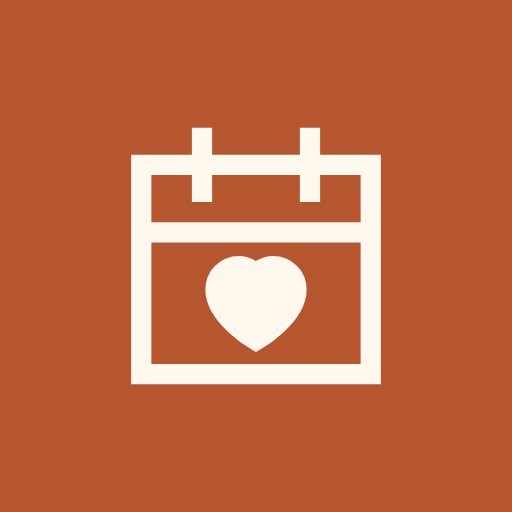
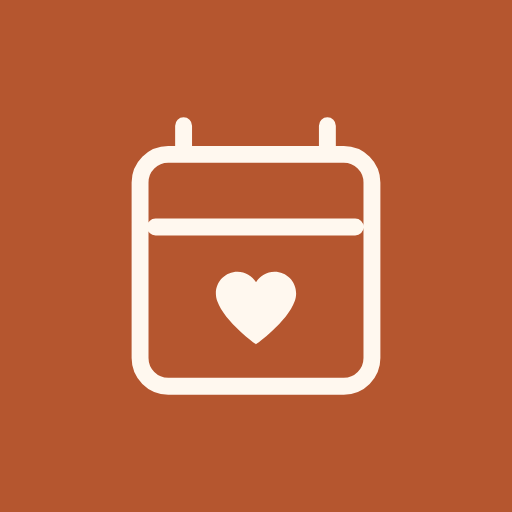
Bytt ikonserie til Arcticons, med nytt appikon
Claude-Session: https://claude.ai/code/session_01B8mfHcXUGkCFza3HKBksXZ

Changed region(s): [[0.25, 0.2188, 0.75, 0.7812]]

diff --git a/public/index.html b/public/index.html
@@ -20,28 +20,26 @@
   <link rel="stylesheet" href="style.css">
 </head>
 <body>
-  <!-- Ikoner: UIX Sharp (MIT, MD Rakib Shekh) via Iconify -->
+  <!-- Ikoner: Arcticons (CC BY-SA 4.0, Donnnno og Arcticons-bidragsytere) via Iconify;
+       pluss, kryss, piler, «åpne lenke» og «logg ut» er tegnet i samme stil. -->
   <svg width="0" height="0" style="position:absolute" aria-hidden="true">
-    <symbol id="i-grocery" viewBox="0 0 24 24"><g fill="none" stroke="currentColor" stroke-linecap="square" stroke-miterlimit="3.5" stroke-width="1.5"><path d="m4 10l2 1.5L8 10l2 1.5l2-1.5l2 1.5l2-1.5l2 1.5l2-1.5v11.5H4Z"/><path d="M6.75 11L3 6a2.5 2.5 0 0 1 4-3l6 8m1.75-.25V8.5C14.75 7 16 6.5 16 5V2.5h2.5V5c0 1.5 1.25 2 1.25 3.5v1.75M6 8l2.5-1M3.75 5l2.5-1"/></g></symbol>
-    <symbol id="i-shopping-list" viewBox="0 0 24 24"><g fill="none" stroke="currentColor" stroke-linecap="square" stroke-miterlimit="3.5" stroke-width="1.5"><path d="M4.5 2.5h15v19h-15Z"/><path d="M7.5 5.5H10V8H7.5Zm0 5.25H10v2.5H7.5Zm0 5.25H10v2.5H7.5Zm5.25-9.25h3.75M12.75 12h3.75m-3.75 5.25H15"/></g></symbol>
-    <symbol id="i-calendar-week" viewBox="0 0 24 24"><path fill="none" stroke="currentColor" stroke-linecap="square" stroke-miterlimit="3.5" stroke-width="1.5" d="M3 3.5h18v18H3ZM8 2v3.5M16 2v3.5m-13 2h18M7 11h10M7 14.25h10M7 17.5h10"/></symbol>
-    <symbol id="i-settings" viewBox="0 0 24 24"><g fill="none" stroke="currentColor" stroke-linecap="square" stroke-miterlimit="3.5" stroke-width="1.5"><path d="m10.474 4.912l.261-2.327h2.53l.261 2.327l2.407.997l1.83-1.461l1.789 1.789l-1.461 1.83l.997 2.407l2.327.261v2.53l-2.327.261l-.997 2.407l1.461 1.83l-1.789 1.789l-1.83-1.461l-2.407.997l-.261 2.327h-2.53l-.261-2.327l-2.407-.997l-1.83 1.461l-1.789-1.789l1.461-1.83l-.997-2.407l-2.327-.261v-2.53l2.327-.261l.997-2.407l-1.461-1.83l1.789-1.789l1.83 1.461Z"/><path d="M9 12a3 3 0 1 0 6 0a3 3 0 1 0-6 0Z"/></g></symbol>
-    <symbol id="i-close" viewBox="0 0 24 24"><path fill="none" stroke="currentColor" stroke-linecap="square" stroke-miterlimit="3.5" stroke-width="1.5" d="m5.5 5.5l13 13m0-13l-13 13"/></symbol>
-    <symbol id="i-chevron-left" viewBox="0 0 24 24"><path fill="none" stroke="currentColor" stroke-linecap="square" stroke-miterlimit="3.5" stroke-width="1.5" d="M15 18.5L8.5 12L15 5.5"/></symbol>
-    <symbol id="i-chevron-right" viewBox="0 0 24 24"><path fill="none" stroke="currentColor" stroke-linecap="square" stroke-miterlimit="3.5" stroke-width="1.5" d="m9 5.5l6.5 6.5L9 18.5"/></symbol>
-    <symbol id="i-plus" viewBox="0 0 24 24"><path fill="none" stroke="currentColor" stroke-linecap="square" stroke-miterlimit="3.5" stroke-width="1.5" d="M12 4v16m-8-8h16"/></symbol>
-    <symbol id="i-external-link" viewBox="0 0 24 24"><path fill="none" stroke="currentColor" stroke-linecap="square" stroke-miterlimit="3.5" stroke-width="1.5" d="M11 4.5H7.5a3 3 0 0 0-3 3v9a3 3 0 0 0 3 3h9a3 3 0 0 0 3-3V13M11 13l8.5-8.5m-5.5 0h5.5V10"/></symbol>
-    <symbol id="i-share-ios" viewBox="0 0 24 24"><path fill="none" stroke="currentColor" stroke-linecap="square" stroke-miterlimit="3.5" stroke-width="1.5" d="M8.5 9h-2a2 2 0 0 0-2 2v8a2 2 0 0 0 2 2h11a2 2 0 0 0 2-2v-8a2 2 0 0 0-2-2h-2M12 2.5v12M8.5 6L12 2.5L15.5 6"/></symbol>
-    <symbol id="i-calendar-sync" viewBox="0 0 24 24"><g fill="none" stroke="currentColor" stroke-linecap="square" stroke-miterlimit="3.5" stroke-width="1.5"><path d="M3.5 5h17v15.5h-17ZM8 3v4m8-4v4M3.5 10h17"/><path d="M9.835 14a2.5 2.5 0 0 1 4.665 1.25"/><path d="m13.25 14l1.25 1.25L15.75 14m-1.585 2.5A2.5 2.5 0 0 1 9.5 15.25"/><path d="m8.25 16.5l1.25-1.25l1.25 1.25"/></g></symbol>
-    <symbol id="i-copy-link" viewBox="0 0 24 24"><g fill="none" stroke="currentColor" stroke-linecap="square" stroke-miterlimit="3.5" stroke-width="1.5"><path d="M8.5 8.5h12v12h-12Z"/><path d="M4 14.5V6a2.5 2.5 0 0 1 2.5-2.5h8M13 12h-.5a2.5 2.5 0 0 0 0 5h.5m3-5h.5a2.5 2.5 0 0 1 0 5H16m-3-2.5h3"/></g></symbol>
-    <symbol id="i-logout" viewBox="0 0 24 24"><path fill="none" stroke="currentColor" stroke-linecap="square" stroke-miterlimit="3.5" stroke-width="1.5" d="M13 6V4.5a2 2 0 0 0-2-2H5.5a2 2 0 0 0-2 2v15a2 2 0 0 0 2 2H11a2 2 0 0 0 2-2V18m-5-6h13m-3.5-3.5L21 12l-3.5 3.5"/></symbol>
-    <symbol id="i-calendar" viewBox="0 0 24 24"><path fill="none" stroke="currentColor" stroke-linecap="square" stroke-miterlimit="3.5" stroke-width="1.5" d="M3.5 5h17v15.5h-17ZM8 3v4m8-4v4M3.5 10h17M8 14h.01M12 14h.01M16 14h.01M8 17h.01M12 17h.01"/></symbol>
-    <symbol id="i-chef-recipe-book" viewBox="0 0 24 24"><g fill="none" stroke="currentColor" stroke-linecap="square" stroke-miterlimit="3.5" stroke-width="1.5"><path d="M12.727 21.5H7q-.123 0-.245-.012t-.243-.036q-.12-.024-.238-.06t-.231-.082t-.221-.105t-.211-.126q-.102-.069-.197-.146q-.095-.078-.182-.165t-.165-.182t-.146-.197t-.126-.211t-.105-.221q-.047-.114-.082-.231t-.06-.238t-.036-.243T4.5 19V5q0-.123.012-.245t.036-.243q.024-.12.06-.238t.082-.231t.105-.221q.058-.109.126-.211q.069-.102.146-.197q.078-.095.165-.182t.182-.165q.095-.077.197-.146t.211-.126q.108-.058.221-.105q.114-.047.231-.082t.238-.06q.121-.024.243-.036T7 2.5h12.5v8.573"/><path d="M4.5 19q0-.123.012-.245t.036-.243t.06-.238t.082-.231q.047-.113.105-.221q.058-.109.126-.211q.069-.102.146-.197q.078-.095.165-.182t.182-.165t.197-.146t.211-.126q.108-.058.221-.105q.114-.047.231-.082t.238-.06t.243-.036T7 16.5h4.573m3.927 5v-3c-1.75-.5-1.5-3.5.5-3.25c.5-2 3.5-2 4 0c2-.25 2.25 2.75.5 3.25v3Z"/></g></symbol>
-    <symbol id="i-repeat" viewBox="0 0 24 24"><g fill="none" stroke="currentColor" stroke-linecap="square" stroke-miterlimit="3.5" stroke-width="1.5"><path d="M4.5 13v-2.5a3 3 0 0 1 3-3H19"/><path d="m16 4.5l3 3l-3 3m3.5.5v2.5a3 3 0 0 1-3 3H5"/><path d="m8 13.5l-3 3l3 3"/></g></symbol>
-    <symbol id="i-clock" viewBox="0 0 24 24"><g fill="none" stroke="currentColor" stroke-linecap="square" stroke-miterlimit="3.5" stroke-width="1.5"><path d="M2.5 12a9.5 9.5 0 1 0 19 0a9.5 9.5 0 1 0-19 0Z"/><path d="M12 7.5V12h4"/></g></symbol>
-    <symbol id="i-home" viewBox="0 0 24 24"><g fill="none" stroke="currentColor" stroke-linecap="square" stroke-miterlimit="3.5" stroke-width="1.5"><path d="m4 10.5l8-7l8 7V20H4Z"/><path d="M9.5 20v-4a2.5 2.5 0 0 1 5 0v4"/></g></symbol>
-    <symbol id="i-cake" viewBox="0 0 24 24"><g fill="none" stroke="currentColor" stroke-linecap="square" stroke-miterlimit="3.5" stroke-width="1.5"><path d="M3.5 11.5h17v9h-17Z"/><path d="M3.5 15q2.5 2 5 0t5 0t7 0M8 11.5V8m4 3.5V8m4 3.5V8M8 5.5h.01m3.99 0h.01m3.99 0h.01"/></g></symbol>
-    <symbol id="i-trash" viewBox="0 0 24 24"><path fill="none" stroke="currentColor" stroke-linecap="square" stroke-miterlimit="3.5" stroke-width="1.5" d="M5.5 6.5h13l-1 14h-11Zm-2 0h17M9 6.5v-2c0-.55.45-1 1-1h4c.55 0 1 .45 1 1v2m-5 4v6m4-6v6"/></symbol>
+    <symbol id="i-home" viewBox="0 0 48 48"><path fill="none" stroke="currentColor" stroke-linecap="round" stroke-linejoin="round" d="M41.973 20.705L25.945 6.409a2.92 2.92 0 0 0-3.89 0L6.027 20.705c-1.074.958-.396 2.737 1.044 2.737h2.05v16.617a2.275 2.275 0 0 0 2.275 2.274h25.208a2.275 2.275 0 0 0 2.275-2.274V23.44h2.05c1.44 0 2.118-1.78 1.044-2.737Z"/></symbol>
+    <symbol id="i-shopping-list" viewBox="0 0 48 48"><g fill="none" stroke="currentColor" stroke-linecap="round" stroke-linejoin="round"><path d="M24 4.5a2.62 2.62 0 0 0-2.617 2.614H10.46c-.914 0-1.65.735-1.65 1.649v33.089c0 .913.736 1.648 1.65 1.648h27.078c.914 0 1.65-.735 1.65-1.648V8.762c0-.913-.736-1.648-1.65-1.648H26.617A2.62 2.62 0 0 0 24 4.5"/><path d="M29.985 7.115v3.372h-11.97V7.115"/></g><path fill="none" stroke="currentColor" stroke-linecap="round" stroke-linejoin="round" d="M17.209 15.166H30.79m-13.581 4.272H30.79m-17.472 4.445h1.044c.914 0 1.472.752 1.649 1.648l1.52 7.696c.32 1.622 1.24 2.346 2.8 2.346h7.778c1.561 0 2.48-.724 2.801-2.346l1.442-7.302l.035-.177H16.104m6.47 2.798h3.76m1.919 9.967a.766.766 0 1 1-1.532 0a.766.766 0 0 1 1.532 0m-6.473 0a.766.766 0 0 1-1.532 0a.766.766 0 0 1 1.533 0"/></symbol>
+    <symbol id="i-chef-recipe-book" viewBox="0 0 48 48"><path fill="none" stroke="currentColor" stroke-linecap="round" stroke-linejoin="round" d="M5.5 23.989c0 10.217 8.283 18.5 18.5 18.5s18.5-8.283 18.5-18.5zM19.562 6.028a3.16 3.16 0 0 0 .906 1.967a3.19 3.19 0 0 1 0 4.51a3.19 3.19 0 0 0 0 4.511a3.19 3.19 0 0 1 0 4.51m2.62-16.014c-.064.891.23 1.802.912 2.483a3.19 3.19 0 0 1 0 4.51a3.19 3.19 0 0 0 0 4.511a3.19 3.19 0 0 1 0 4.51M26.559 5.67a3.17 3.17 0 0 0 .927 2.325a3.19 3.19 0 0 1 0 4.51a3.19 3.19 0 0 0 0 4.511a3.19 3.19 0 0 1 0 4.51M5.5 17.06l6.52 6.928"/></symbol>
+    <symbol id="i-calendar" viewBox="0 0 48 48"><path fill="none" stroke="currentColor" stroke-linecap="round" stroke-linejoin="round" d="M11.532 9.567h24.936a4 4 0 0 1 4 4V38.5a4 4 0 0 1-4 4H11.532a4 4 0 0 1-4-4V13.567a4 4 0 0 1 4-4M13.715 5.5v4.068M34.14 5.5v4.068M9.731 19.89h28.36"/><circle cx="15.804" cy="26.011" r="1.7" fill="currentColor"/><circle cx="24" cy="26.011" r="1.7" fill="currentColor"/><circle cx="32.196" cy="26.011" r="1.7" fill="currentColor"/><circle cx="15.804" cy="34.251" r="1.7" fill="currentColor"/><circle cx="24" cy="34.251" r="1.7" fill="currentColor"/><circle cx="32.196" cy="34.251" r="1.7" fill="currentColor"/></symbol>
+    <symbol id="i-calendar-sync" viewBox="0 0 48 48"><path fill="none" stroke="currentColor" stroke-linecap="round" stroke-linejoin="round" d="M11.532 9.567h24.936a4 4 0 0 1 4 4V38.5a4 4 0 0 1-4 4H11.532a4 4 0 0 1-4-4V13.567a4 4 0 0 1 4-4M13.715 5.5v4.068M34.14 5.5v4.068M9.731 19.89h28.36"/><circle cx="15.804" cy="26.011" r="1.7" fill="currentColor"/><circle cx="24" cy="26.011" r="1.7" fill="currentColor"/><circle cx="32.196" cy="26.011" r="1.7" fill="currentColor"/><circle cx="15.804" cy="34.251" r="1.7" fill="currentColor"/><circle cx="24" cy="34.251" r="1.7" fill="currentColor"/><circle cx="32.196" cy="34.251" r="1.7" fill="currentColor"/></symbol>
+    <symbol id="i-settings" viewBox="0 0 48 48"><path fill="none" stroke="currentColor" stroke-linecap="round" stroke-linejoin="round" d="M39.23 26a17 17 0 0 0 .14-2a17 17 0 0 0-.14-2l4.33-3.39a1 1 0 0 0 .25-1.31l-4.1-7.11a1 1 0 0 0-1.25-.44l-5.11 2.06a15.7 15.7 0 0 0-3.46-2l-.77-5.43a1 1 0 0 0-1-.86H19.9a1 1 0 0 0-1 .86l-.77 5.43a15.4 15.4 0 0 0-3.46 2L9.54 9.75a1 1 0 0 0-1.25.44l-4.1 7.11a1 1 0 0 0 .25 1.31L8.76 22a17 17 0 0 0-.14 2a17 17 0 0 0 .14 2l-4.32 3.39a1 1 0 0 0-.25 1.31l4.1 7.11a1 1 0 0 0 1.25.44l5.11-2.06a15.7 15.7 0 0 0 3.46 2l.77 5.43a1 1 0 0 0 1 .86h8.2a1 1 0 0 0 1-.86l.77-5.43a15.4 15.4 0 0 0 3.46-2l5.11 2.06a1 1 0 0 0 1.25-.44l4.1-7.11a1 1 0 0 0-.25-1.31ZM24 31.18A7.18 7.18 0 1 1 31.17 24A7.17 7.17 0 0 1 24 31.18"/></symbol>
+    <symbol id="i-share-ios" viewBox="0 0 48 48"><path fill="none" stroke="currentColor" stroke-linecap="round" stroke-linejoin="round" d="m30 15l-12.1 6.07m0 5.86l12.18 6.11m12.42 2.89a6.55 6.55 0 1 1-13.1 0a6.55 6.55 0 0 1 13.1 0m-.1-23.86a6.55 6.55 0 1 1-13.1 0a6.55 6.55 0 0 1 13.1 0M18.6 24a6.55 6.55 0 1 1-13.1 0a6.55 6.55 0 0 1 13.1 0"/></symbol>
+    <symbol id="i-trash" viewBox="0 0 48 48"><path fill="none" stroke="currentColor" stroke-linecap="round" stroke-linejoin="round" d="M31.945 7.624L28.84 4.5h-9.68l-3.105 3.124H8.872v4.647h30.256V7.624zm-19.9 4.647h23.95v28.124A3.106 3.106 0 0 1 32.89 43.5H15.15a3.106 3.106 0 0 1-3.105-3.105zM24 17.886v20m6-20v20m-12-20v20"/></symbol>
+    <symbol id="i-clock" viewBox="0 0 48 48"><path fill="none" stroke="currentColor" stroke-linecap="round" stroke-linejoin="round" d="M24 2.5A21.5 21.5 0 1 1 2.5 24A21.51 21.51 0 0 1 24 2.5"/><circle cx="24" cy="24" r="2.5" fill="none" stroke="currentColor" stroke-linecap="round" stroke-linejoin="round"/><path fill="none" stroke="currentColor" stroke-linecap="round" stroke-linejoin="round" d="M24 21.5V11.44m2.1 13.91l12.2 7.8"/></symbol>
+    <symbol id="i-cake" viewBox="0 0 48 48"><path fill="none" stroke="currentColor" stroke-linecap="round" stroke-linejoin="round" d="M24 10.204a2.983 2.983 0 0 1 2.984-2.984M9.23 30.957a2.984 2.984 0 0 0 4.22 0a2.986 2.986 0 0 1 4.22 0a2.984 2.984 0 0 0 4.22 0a2.986 2.986 0 0 1 4.22 0a2.984 2.984 0 0 0 4.22 0a2.986 2.986 0 0 1 4.22 0a2.984 2.984 0 0 0 4.22 0a2.985 2.985 0 0 1 3.73-.393V28.25a2.984 2.984 0 0 0-2.984-2.983H8.484A2.984 2.984 0 0 0 5.5 28.25v2.313a2.985 2.985 0 0 1 3.73.393"/><path fill="none" stroke="currentColor" stroke-linecap="round" stroke-linejoin="round" d="M5.5 30.564v9.022c0 .66.534 1.194 1.194 1.194h34.612c.66 0 1.194-.535 1.194-1.194v-9.022"/><path fill="none" stroke="currentColor" stroke-linecap="round" stroke-linejoin="round" d="M9.23 30.957a2.984 2.984 0 0 0 4.22 0a2.986 2.986 0 0 1 4.22 0a2.984 2.984 0 0 0 4.22 0a2.986 2.986 0 0 1 4.22 0a2.984 2.984 0 0 0 4.22 0a2.986 2.986 0 0 1 4.22 0a2.984 2.984 0 0 0 4.22 0a2.985 2.985 0 0 1 3.73-.393V28.25a2.984 2.984 0 0 0-2.984-2.983H8.484A2.984 2.984 0 0 0 5.5 28.25v2.313a2.985 2.985 0 0 1 3.73.393m.447-14.086a2.984 2.984 0 0 1 3.773.365a2.986 2.986 0 0 0 4.22 0a2.985 2.985 0 0 1 4.22 0a2.986 2.986 0 0 0 4.22 0a2.985 2.985 0 0 1 4.22 0a2.986 2.986 0 0 0 4.22 0a2.984 2.984 0 0 1 3.773-.365v-1.148a2.984 2.984 0 0 0-2.984-2.983H12.66a2.984 2.984 0 0 0-2.984 2.983zm28.646 0v8.398M9.677 16.87v8.398"/><path fill="none" stroke="currentColor" stroke-linecap="round" stroke-linejoin="round" d="M22.21 10.95a1.79 1.79 0 0 0 3.58.001v-.002a1.79 1.79 0 0 0-3.58-.002z"/></symbol>
+    <symbol id="i-repeat" viewBox="0 0 48 48"><path fill="none" stroke="currentColor" stroke-linecap="round" stroke-linejoin="round" d="M30.94 13.842c-5.62-3.781-13.24-2.292-17.02 3.327a12.26 12.26 0 0 0-2.09 6.83v6.33m5.403 3.827a12.13 12.13 0 0 0 6.847 2.092c6.765 0 12.249-5.484 12.249-12.249v-6.33"/><path fill="none" stroke="currentColor" stroke-linecap="round" stroke-linejoin="round" d="m18.173 23.999l-6.343 6.33l-6.33-6.33m24.34 0l6.489-6.33l6.171 6.33"/></symbol>
+    <symbol id="i-plus" viewBox="0 0 48 48"><path fill="none" stroke="currentColor" stroke-linecap="round" stroke-linejoin="round" d="M24 11v26M11 24h26"/></symbol>
+    <symbol id="i-close" viewBox="0 0 48 48"><path fill="none" stroke="currentColor" stroke-linecap="round" stroke-linejoin="round" d="M14 14l20 20M34 14L14 34"/></symbol>
+    <symbol id="i-chevron-left" viewBox="0 0 48 48"><path fill="none" stroke="currentColor" stroke-linecap="round" stroke-linejoin="round" d="M29 11L16 24l13 13"/></symbol>
+    <symbol id="i-chevron-right" viewBox="0 0 48 48"><path fill="none" stroke="currentColor" stroke-linecap="round" stroke-linejoin="round" d="M19 11l13 13l-13 13"/></symbol>
+    <symbol id="i-external-link" viewBox="0 0 48 48"><path fill="none" stroke="currentColor" stroke-linecap="round" stroke-linejoin="round" d="M21 9.5h-8a4 4 0 0 0-4 4v21a4 4 0 0 0 4 4h21a4 4 0 0 0 4-4v-8M27.5 9.5h11v11M38.5 9.5L22 26"/></symbol>
+    <symbol id="i-logout" viewBox="0 0 48 48"><path fill="none" stroke="currentColor" stroke-linecap="round" stroke-linejoin="round" d="M26 9.5H13a4 4 0 0 0-4 4v21a4 4 0 0 0 4 4h13M21 24h19M33 17l7 7l-7 7"/></symbol>
   </svg>
   <!-- Oppstart: lag eller bli med i familie -->
   <section id="join" class="screen" hidden>

diff --git a/public/style.css b/public/style.css
@@ -503,3 +503,8 @@ input, select { border-radius: 14px; background: var(--surface); }
 }
 #title { font-size: 40px; line-height: 1.05; }
 .join-card h1 { font-size: 64px; line-height: 1; }
+
+/* Arcticons: tynn, avrundet strek – litt kraftigere i små størrelser */
+.i { stroke-width: 2.6; }
+.i.sm { stroke-width: 3; }
+.tabbar .i { stroke-width: 2.4; }

diff --git a/README.md b/README.md
@@ -40,4 +40,6 @@ Varm palett (krem, espresso, terrakotta) med egen mørk modus. Skriftene ligger 
 
 ## Ikoner
 
-Appikon og ikoner i appen er fra [UIX Sharp](https://github.com/mdrakibshekh/uix-icons) av MD Rakib Shekh (MIT-lisens), hentet via Iconify. Appikonet bruker `uix-sharp:calendar-heart`.
+Ikonene er fra [Arcticons](https://github.com/Arcticons-Team/Arcticons) av Donnnno og Arcticons-bidragsytere, hentet via Iconify, og er lisensiert under [CC BY-SA 4.0](https://creativecommons.org/licenses/by-sa/4.0/). Brukt: `home`, `shopping-list`, `emoji-pot-of-food`, `fossify-calendar`, `settings`, `share`, `trashcan`, `clock`, `emoji-birthday-cake`, `emoji-anticlockwise-downwards-and-upwards-open-circle-arrows` og `heart`.
+
+Endringer: strekbredden er justert for små størrelser, prikkene i kalenderikonet er forstørret, og appikonet er satt sammen av `fossify-calendar` og `heart`. Pluss, kryss, piler, «åpne lenke» og «logg ut» finnes ikke i Arcticons og er tegnet i samme stil. Ikonene (med endringer) deles under samme lisens, CC BY-SA 4.0.
